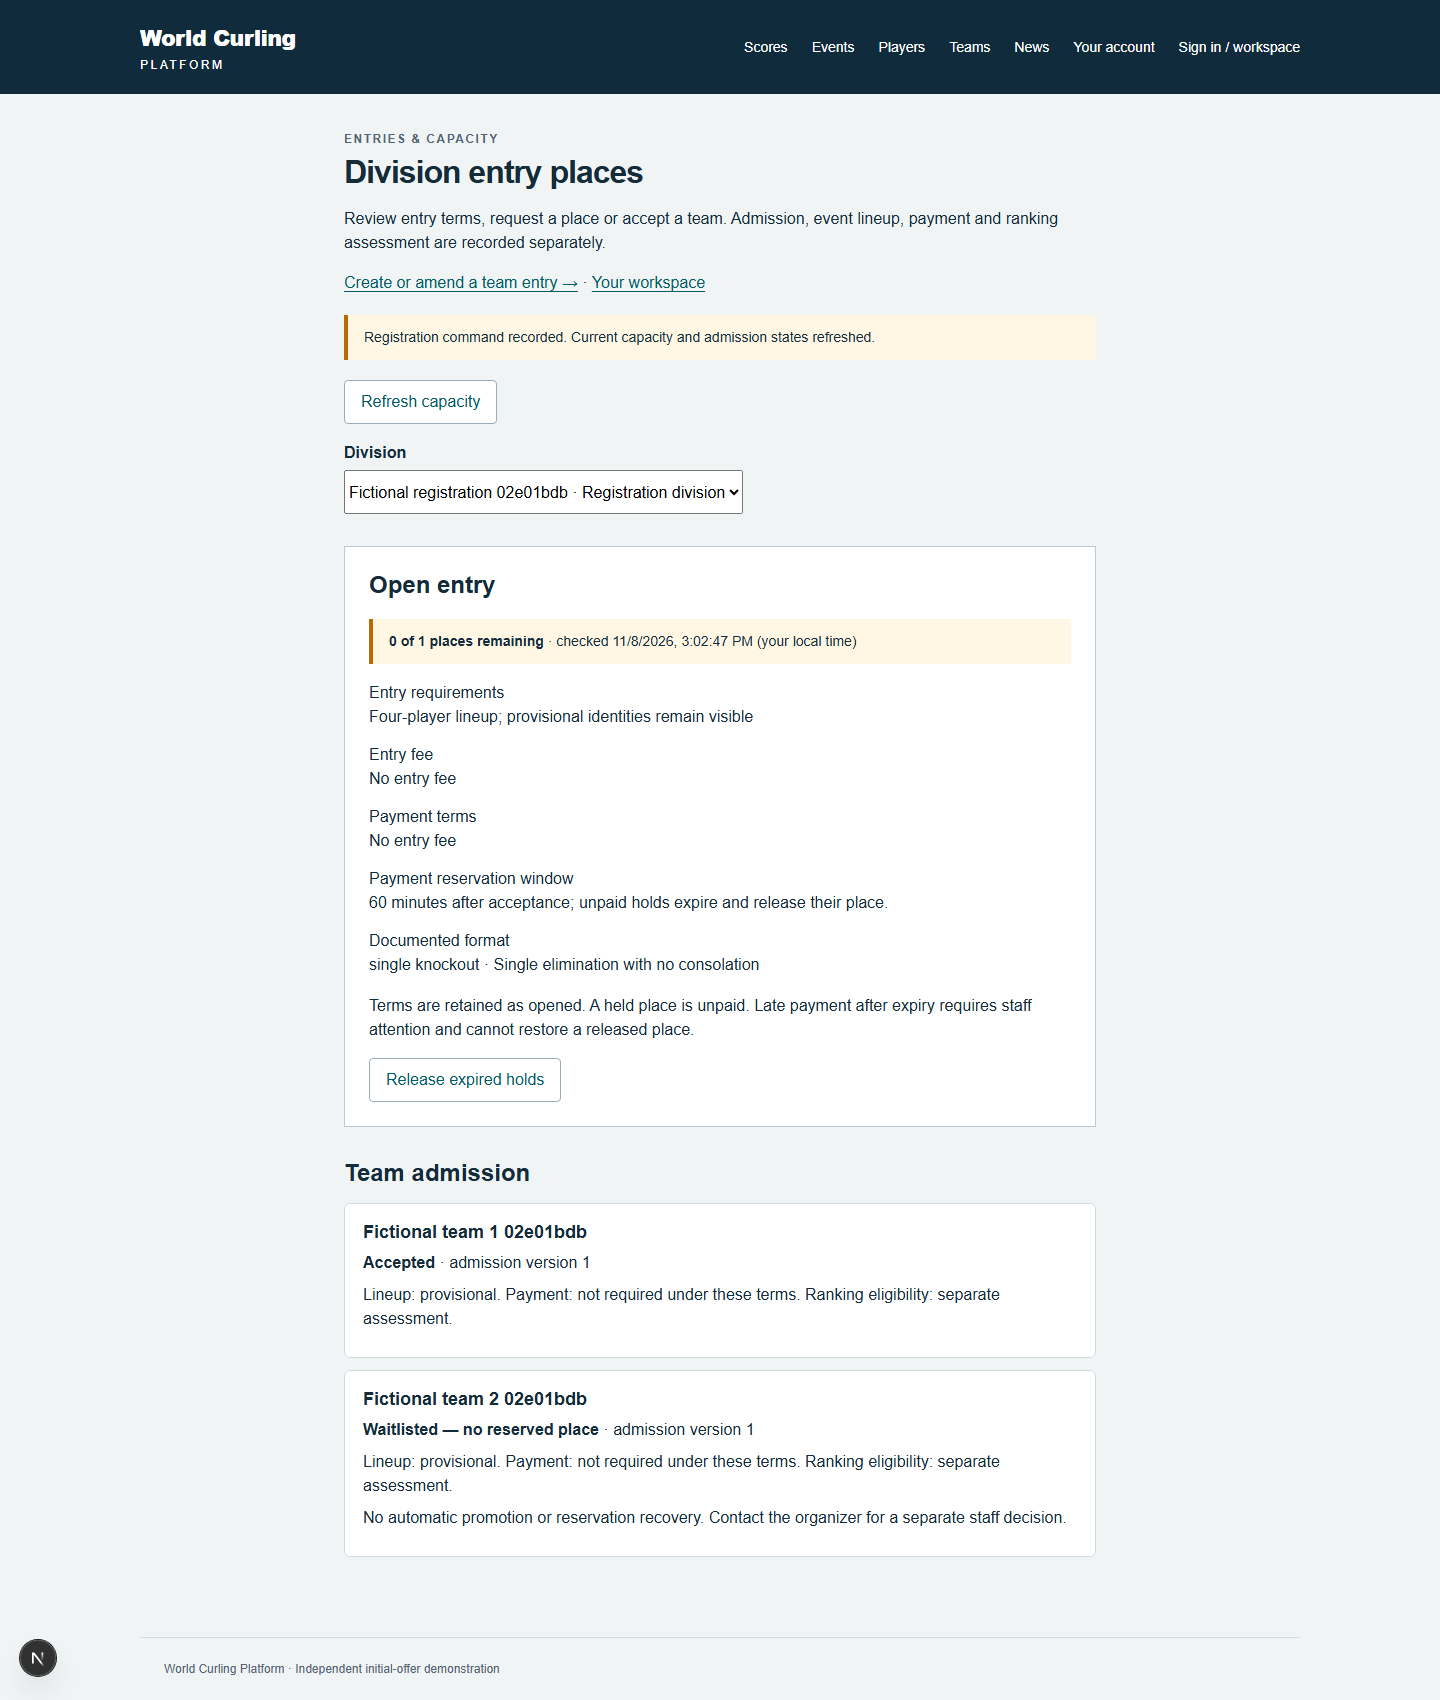
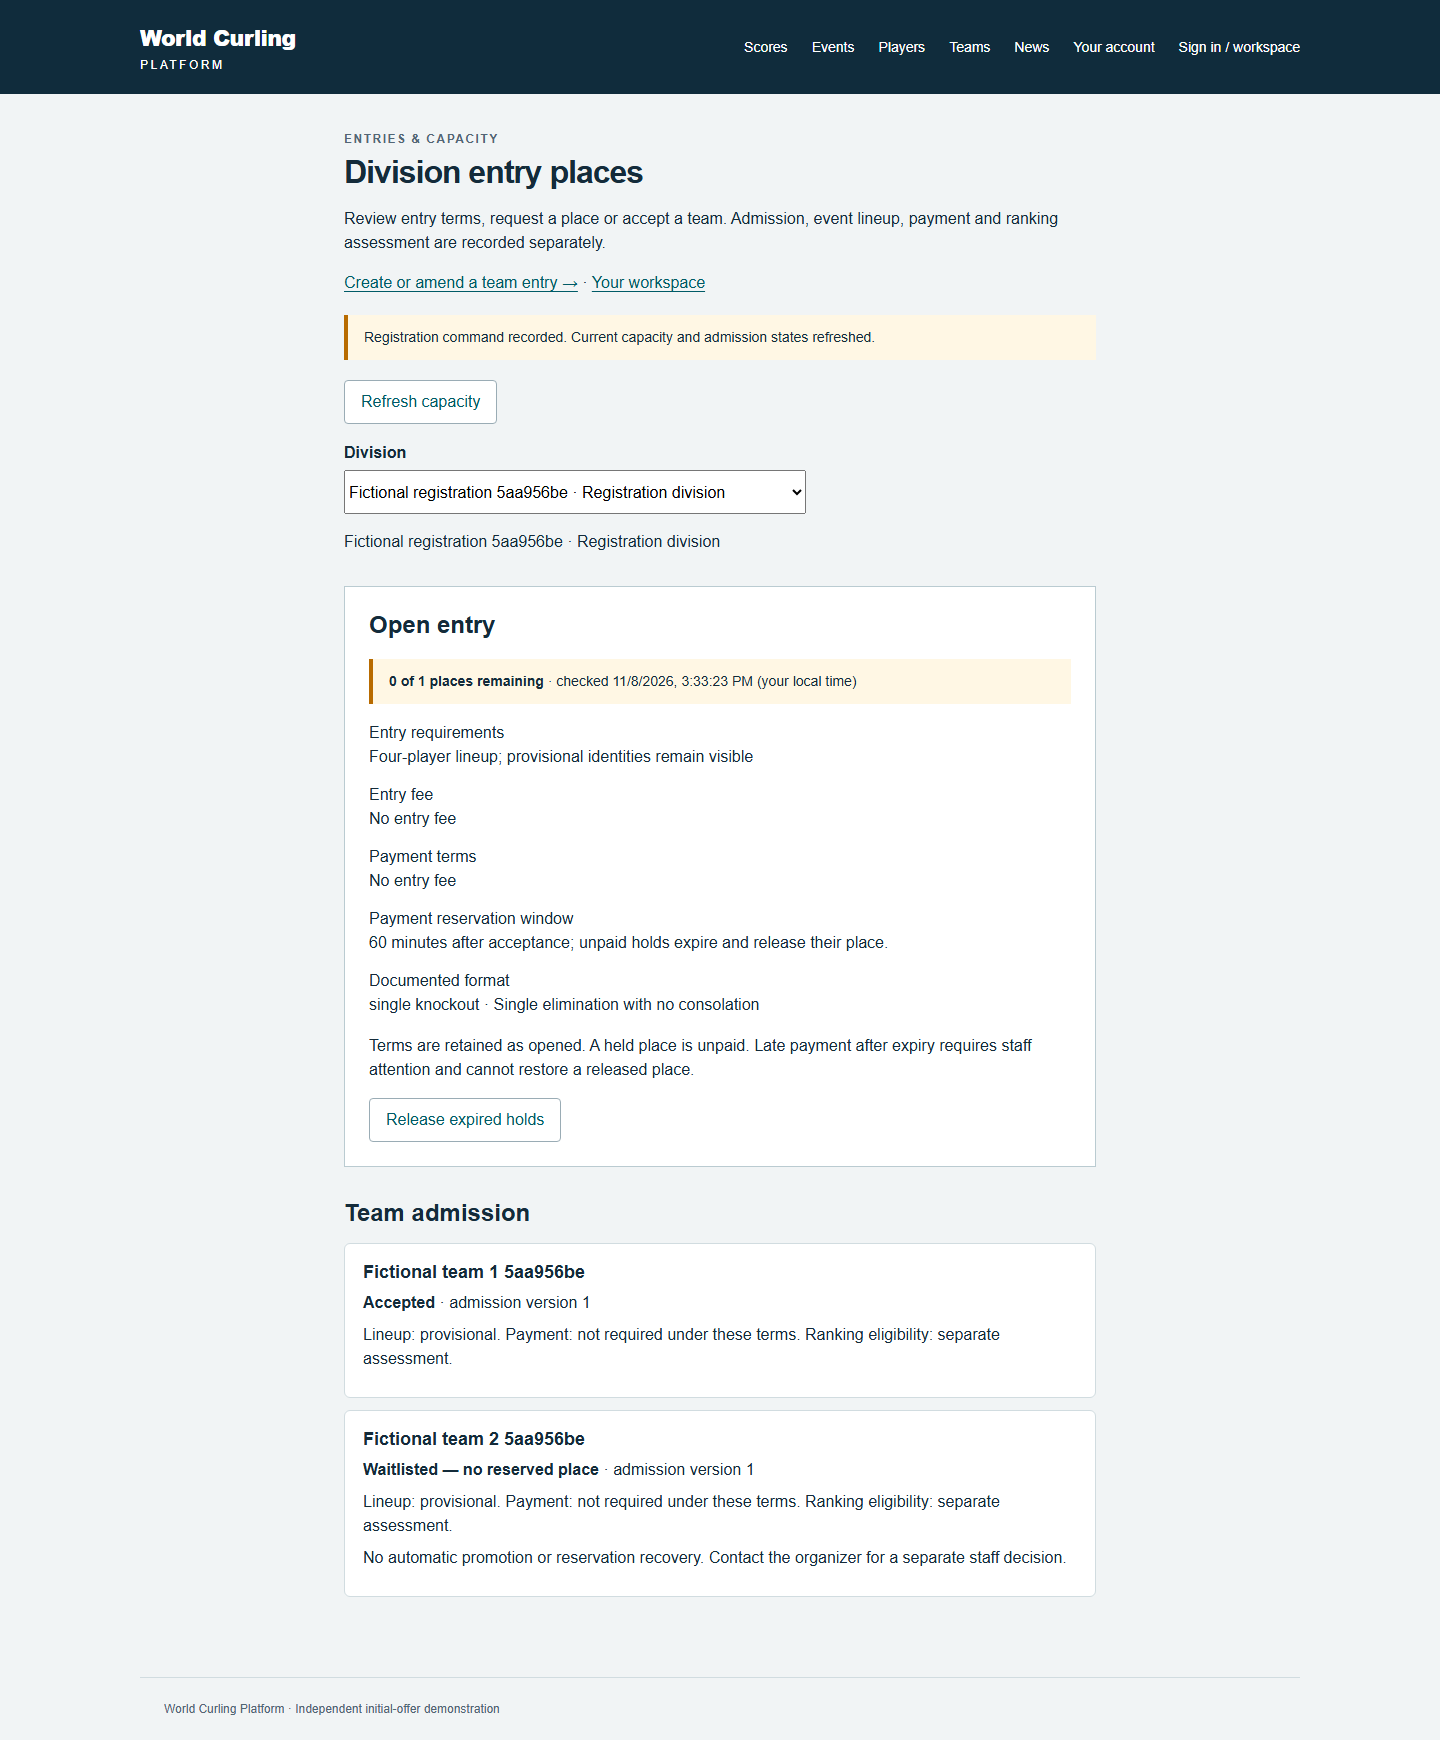
verify(WCP-009): complete capacity phase one and preserve scoped evidence

diff --git a/tests/browser/registration.spec.ts b/tests/browser/registration.spec.ts
@@ -122,25 +122,21 @@ for (const [label, width, height] of [
     await expect(
       page.getByText("1 of 1 places remaining", { exact: true }),
     ).toBeVisible();
-    const first = page
-      .getByRole("listitem")
-      .filter({
-        has: page.getByRole("heading", {
-          name: `Fictional team 1 ${f.suffix}`,
-        }),
-      });
+    const first = page.getByRole("listitem").filter({
+      has: page.getByRole("heading", {
+        name: `Fictional team 1 ${f.suffix}`,
+      }),
+    });
     await first.getByRole("button", { name: "Request entry place" }).click();
     await expect(first.getByText("Accepted", { exact: true })).toBeVisible();
     await expect(
       page.getByText("0 of 1 places remaining", { exact: true }),
     ).toBeVisible();
-    const second = page
-      .getByRole("listitem")
-      .filter({
-        has: page.getByRole("heading", {
-          name: `Fictional team 2 ${f.suffix}`,
-        }),
-      });
+    const second = page.getByRole("listitem").filter({
+      has: page.getByRole("heading", {
+        name: `Fictional team 2 ${f.suffix}`,
+      }),
+    });
     await second.getByRole("button", { name: "Request entry place" }).click();
     await expect(
       second.getByText("Waitlisted — no reserved place", { exact: true }),
@@ -177,13 +173,11 @@ test("reviewed fee holds expire, and invitation-only representatives can request
   await page
     .getByLabel("Division", { exact: true })
     .selectOption(reviewed.division);
-  const first = page
-    .getByRole("listitem")
-    .filter({
-      has: page.getByRole("heading", {
-        name: `Fictional team 1 ${reviewed.suffix}`,
-      }),
-    });
+  const first = page.getByRole("listitem").filter({
+    has: page.getByRole("heading", {
+      name: `Fictional team 1 ${reviewed.suffix}`,
+    }),
+  });
   await first.getByRole("button", { name: "Submit for review" }).click();
   await expect(
     page.getByText("1 of 1 places remaining", { exact: true }),
@@ -242,13 +236,11 @@ test("reviewed fee holds expire, and invitation-only representatives can request
   await page
     .getByLabel("Division", { exact: true })
     .selectOption(invited.division);
-  const row = page
-    .getByRole("listitem")
-    .filter({
-      has: page.getByRole("heading", {
-        name: `Fictional team 1 ${invited.suffix}`,
-      }),
-    });
+  const row = page.getByRole("listitem").filter({
+    has: page.getByRole("heading", {
+      name: `Fictional team 1 ${invited.suffix}`,
+    }),
+  });
   await row.getByRole("button", { name: "Invite entry" }).click();
   await expect(
     row.getByText("Invited — place not reserved", { exact: true }),
@@ -282,7 +274,7 @@ test("loading, empty, denied, stale and uncertain exact retry remain truthful", 
     page.getByText("Loading entry terms and capacity…", { exact: true }),
   ).toBeVisible();
   release();
-  await page.unroute("**/api/v1/registration");
+  await page.unrouteAll({ behavior: "wait" });
   await page.getByLabel("Division", { exact: true }).selectOption(f.division);
   // Another command changes this admission after this tab read version zero.
   expect(
@@ -299,11 +291,9 @@ test("loading, empty, denied, stale and uncertain exact retry remain truthful", 
       })
     ).status(),
   ).toBe(200);
-  const first = page
-    .getByRole("listitem")
-    .filter({
-      has: page.getByRole("heading", { name: `Fictional team 1 ${f.suffix}` }),
-    });
+  const first = page.getByRole("listitem").filter({
+    has: page.getByRole("heading", { name: `Fictional team 1 ${f.suffix}` }),
+  });
   await first.getByRole("button", { name: "Request entry place" }).click();
   await expect(
     page.getByText(/Admission changed in another tab/),
@@ -350,7 +340,7 @@ test("loading, empty, denied, stale and uncertain exact retry remain truthful", 
   await expect(page.getByText(/Registration command recorded/)).toBeVisible();
   expect(requests).toHaveLength(2);
   expect(requests[1]).toBe(requests[0]);
-  await page.unroute("**/api/v1/registration");
+  await page.unrouteAll({ behavior: "wait" });
   await page.context().setOffline(true);
   await page
     .getByRole("button", { name: "Refresh capacity", exact: true })

diff --git a/src/components/public-rosters.tsx b/src/components/public-rosters.tsx
@@ -194,8 +194,11 @@ export function PublicRoster({
       <main id="main">
         {e.registrationConfigured ? (
           <p className="notice">
-            Admission: {e.admissionState}. Payment, lineup readiness and ranking
-            eligibility are separate.
+            Admission: {e.admissionState}
+            {e.admissionState === "pending"
+              ? "; this submission does not reserve a place"
+              : ""}
+            . Payment, lineup readiness and ranking eligibility are separate.
           </p>
         ) : (
           e.entryAdmission === "submitted_pending" && (

diff --git a/docs/verification/WCP-009.md b/docs/verification/WCP-009.md
@@ -1,24 +1,26 @@
-# WCP-009 verification — implementation checkpoint, incomplete
+# WCP-009 verification — phase-one capacity candidate
 
 Assigned worktree `C:/Users/brthi/Projects/world-curling-platform-2/.worktrees/WCP-009`, branch `ticket/WCP-009`, based on and merged with `aaf657c`. Tracker closure remains the coordinator's responsibility. Applied implement-spec and the upstream TDD skill using the already-agreed domain, real PostgreSQL/HTTP and browser seams; read installed Next 16.4.5 route-handler/client component guides before framework code.
+
+**Current phase-one result:** capacity/terms/admission candidate is ready for independent review. Domain57/57; full production API71/71 before the later identity guard, affected post-guard API26/26 plus final current registration API9/9; complete production browser59/63 followed by all10 affected registration/representation cases passing after the four identified failures were fixed. Final production build, explicit typecheck and worker probe pass. These scopes are recorded separately below; no full post-fix browser pass is claimed. Overall WCP-009 remains open until review and the required accepted WCP-019 combined contract are verified. The coordinator explicitly requested this phase-one handoff while WCP-019 independent acceptance is pending.
 
 Implemented complete immutable opening terms, open/reviewed/invited admission, zero-fee acceptance, bounded unpaid holds, effective and materialized expiry, capacity serialization, actor-bound tab command recovery, exact receipts with current authorization, and public admission labels. [API/locking contract](../api/registration.md).
 
 Owned environment: native PostgreSQL 13 at `127.0.0.1:55431`, database `wcp009`, app `3109`, news fixture `3209`, durable media outside worktree at project `.runtime/wcp009-media`. Generated random secrets remain only in ignored `.env`; email is local-file. No Docker, hosted/provider access or crawler writes.
 
-## Executed so far
+## Initial checkpoint history
 
 - `npm ci`: 89 packages, audit zero vulnerabilities.
 - `node --import tsx --test tests/registration-domain.test.ts`: prerequisite red (missing module), green; transition/expiry/draw-predicate red (missing exports), green 3/3. Independent literal deadlines, zero-fee vs held vs reviewed/invited/full and exact expiry boundary.
 - `npm run db:migrate; npm run db:seed`: all accepted migrations through0021 on new `wcp009`, then incremental0023 applied without modifying any accepted migration.
 - `node --import tsx --test tests/registration-api.test.ts`: initial red404, then green4/4. Competing one-place accepts; reviewed pending/no capacity; fixed unpaid deadline; exact replay/no extension; expiry/retry; actual PostgreSQL edition-lock barrier crossing the deadline; explicit invited representative and exact team-season scope; current revocation before replay; atomic linked audit/receipt and immutable receipt refusal.
-- `npm run typecheck`: passed before final formatting/current later edits; must rerun final candidate.
+- `npm run typecheck`: initial pass; final current-source repetition is recorded below.
 - `npx playwright test tests/browser/registration.spec.ts`: complete focused dev run passed5/5 in1.3m. Phone360, tablet768, desktop1440, keyboard focus/tab, no overflow, axe0, no page/console/server errors in responsive workflows; reviewed unpaid hold/expiry, actual representative invite request, public accepted/waitlisted labels, loading/empty/denied/offline stale, conflicting stale tab, response lost after real commit and exact-byte retry across reload. Actual429 respected through header-based helper wait. Retained full passing report/results at project `.runtime/wcp009/browser-dev-focused-pass/` before further runs.
 - Two initial browser runs were intentionally interrupted, not acceptance: first phone selector failure (nested select label), second had4 passing flows but recovery selector mismatch. Explicit select labels and correct existing recovery button selector fixed them. Available test-results/traces retained at `.runtime/wcp009/browser-initial-interrupted/` and `browser-second-interrupted/`; interrupted runs did not finish an HTML report.
-- Actually opened and visually inspected all three fictional-data screenshots in `docs/verification/assets/WCP-009/`. Text/actions readable, no horizontal clipping; native long select text prompted adding a fully visible selected edition/division label. Final production screenshots still required.
+- Actually opened and visually inspected the initial three fictional-data screenshots. Text/actions readable, no horizontal clipping; native long select text prompted adding a fully visible selected edition/division label. Production captures and inspection are recorded below.
 - Standard `npm test` after formatting/package inclusion:57/57 passed (2.58s), including3 new registration domain tests.
 
-## Still required before handoff
+## Outstanding at the initial checkpoint (subsequent results below)
 
 Current accepted integration merge (WCP-027 correction acceptance notification pending at this checkpoint), final production build/types/worker; fresh full migration plus repeat seed/checksum and incremental verification; broader inherited API/browser suites preserving accepted entry/finalizer barriers; final screenshots/report/source revision. No claim of complete ticket acceptance or full-suite success yet. WCP-019 draw-adapter integration is coordinated at its independent acceptance boundary; no pending sibling source imported.
 
@@ -36,4 +38,40 @@ Merged formally accepted corrected WCP-027 through integration `ee3e9c6` into `7
 - Rebuilt production, then `node --import tsx --test --test-concurrency=1 tests/registration-api.test.ts tests/entries.api.test.ts tests/entries-concurrency-api.test.ts tests/finalization-api.test.ts`: **26/26 passed**,71.68s. Includes all ten finalization cases and both real lock orders; new guard rejects a second known-team reservation and active amendment, releases expired history and replays the original receipt without restoring its place. Full affected log `.runtime/wcp009/api-identity-affected.log`.
 - Added and ran focused `--test-name-pattern='two active lineup amendments' tests/registration-api.test.ts`:1/1 passed,8 unrelated cases skipped. Actual division barrier observes first amendment waiting, second waiting on the first, then release gives200/409; exactly one accepted entry acquires the known team, other unresolved entry remains accepted, and total occupied places stays2. This is a focused additional regression, not a nine-case full-file run.
 
-Full production browser run and final accepted WCP-019 seam integration remain pending at this checkpoint. Current-source type/worker and affected union checks will be rerun when needed; source is frozen during each suite.
+That checkpoint preceded the full production browser run and final accepted WCP-019 seam integration. Subsequent phase-one results follow. Source remained frozen during every suite; API and browser fixture runs were sequential.
+
+## Final phase-one production checks and fixes
+
+App/test source for the full browser run was `8a67f85`; the final phase-one commit adds exactly the pending-notice copy correction and browser route-teardown correction tested in the affected run below. Only evidence/documentation and safe screenshots followed that affected run.
+
+| Command / scope | Actual result |
+| --- | --- |
+| Full `npx playwright test --output=<retained>/test-results` at production3109 | **59 passed /4 failed**,63 total,11.8m. All inherited application/authority/entry/finalization/news/photo/profile/ranking/result/schedule/scoring/public-score checks outside the four listed cases passed. This report is retained unchanged and is not a full green run. |
+| Failure diagnosis/fix | Registration loading fixture released its request gate then removed routes without waiting: `route.continue: Route is already handled!`. Changed both teardowns to installed Playwright's `unrouteAll({behavior:"wait"})`; no errors were ignored. Three inherited representative viewport checks exposed configured pending public entries lacking the explicit “this submission does not reserve a place” sentence. Restored that sentence for pending configured entries; retained their original assertions. |
+| `npm run build` after those two fixes | Passed production compilation/types/static generation. Retained `.runtime/wcp009/build-browser-fixes.log`. |
+| `node --import tsx --test tests/registration-api.test.ts` | **9/9 passed**,5.70s, all current cases together with their owned pool lifetime. Includes the additional actual two-amendment barrier regression. Retained `.runtime/wcp009/registration-api-final.log`. |
+| `npx playwright test tests/browser/registration.spec.ts tests/browser/representation.spec.ts --output=<retained>/test-results` | **10/10 passed**,2.7m. All four formerly failing cases pass; includes all five registration and five representative cases. Retained separately from the failed full report. Assertions remain intact; no shortened/full-suite claim. |
+| Final `npm run typecheck; npm run worker:probe` | Passed explicit current production-generated types and real PostgreSQL/pg-boss job completion/output. Earlier current type log `.runtime/wcp009/typecheck-identity.log` also passes. |
+| `git merge integration/world-curling-platform; git diff --check` | Already up to date with accepted `ee3e9c6`; whitespace clean. No pending WCP-019 or WCP-033 source imported. |
+
+Retained artifact root is **`C:/Users/brthi/Projects/world-curling-platform-2/.runtime/wcp009/`**, outside the disposable worktree:
+
[2 lines of base64/hex data omitted]
+- Earlier focused/interrupted reports, complete API/coverage logs, `verify-db.mjs`, `fresh-manifest.json`, and `public-pending-review.mjs` retained there. Run helper scripts from this worktree's cwd with its dependencies/environment; original ignored helpers remain in the worktree `.runtime/` too.
+- Full browser tests regenerated WCP-012/013/044 screenshots. Preserved those generated files under `inherited-browser-assets/` and restored their accepted tracked baselines. Only WCP-009 public fictional-data images are committed by this slice; no trace, inbox, password or private account artifact is committed.
+
+Production screenshots were actually opened and visually inspected at360×900,768×1024 and1440×1000. Visible selected edition/division labels, terms, primary actions, accepted/no-payment-required and waitlisted/no-reservation text are readable without page overflow; screenshots contain no development overlay. Additional phone public pending screenshot verifies the restored notice and separate roster/ranking evidence. A one-off read-only visual harness initially used `browser.newPage()` and axe required an explicit `browser.newContext()`; corrected the harness, then the public fictional pending page passed axe0, no page errors and no overflow before capture.
+
+- [Phone registration](assets/WCP-009/phone-registration.png)
+- [Tablet registration](assets/WCP-009/tablet-registration.png)
+- [Desktop registration](assets/WCP-009/desktop-registration.png)
+- [Phone public pending entry](assets/WCP-009/phone-pending-public.png)
+
+## Required next combined phase and honest limits
+
+WCP-019 is not yet formally accepted at this handoff. Its pending implementation has not been imported. Once the coordinator notifies acceptance, the original implementer must merge it between runs and enrich its central `src/modules/entries/draw-field.ts` projection using the existing `canEnterDraw` contract, preserving `teamId`. Configured divisions permit **accepted** entries only; pending/invited/held/expired/waitlisted submissions cannot become accepted through draw selection. Preserve unconfigured legacy organizer-recorded fixtures and actual played participants/results.
+
+The operated format must match immutable registration terms. Enforce configured single-knockout family compatibility with the accepted single-profile engine's actual6/8 field support (six has structural byes); capacity is a ceiling, not an eight-entry equality rule. On a configured initial field, selection must include the complete current accepted field rather than silently omitting accepted peers. Recheck these facts at publication under the existing edition-first lock. Unsupported family/actual field preparation receives an honest error; do not rewrite terms or prebuild later format engines. Add real PostgreSQL/API and browser union regressions, rerun affected entry/finalizer barriers, migrations/types/build/worker as warranted, and retain distinct reports. This outstanding combined contract prevents overall closure; it is not an invented tracker dependency.
+
+Provider/charge settlement, real late-payment events and staff financial attention records remain WCP-010/028, not exercised or claimed here. The domain late-payment disposition is a guard/contract for those future adapters, not evidence of verified provider delivery. No automatic waitlist promotion or expired-reservation revival is implemented. Registration terms deliberately remain immutable after opening; withdrawal/replacement is the separate WCP-011 slice. Domain coverage percentages do not establish database/browser coverage; exhaustive arbitrary transaction interleavings, all future payment branches and migration-tamper refusal are not claimed.
